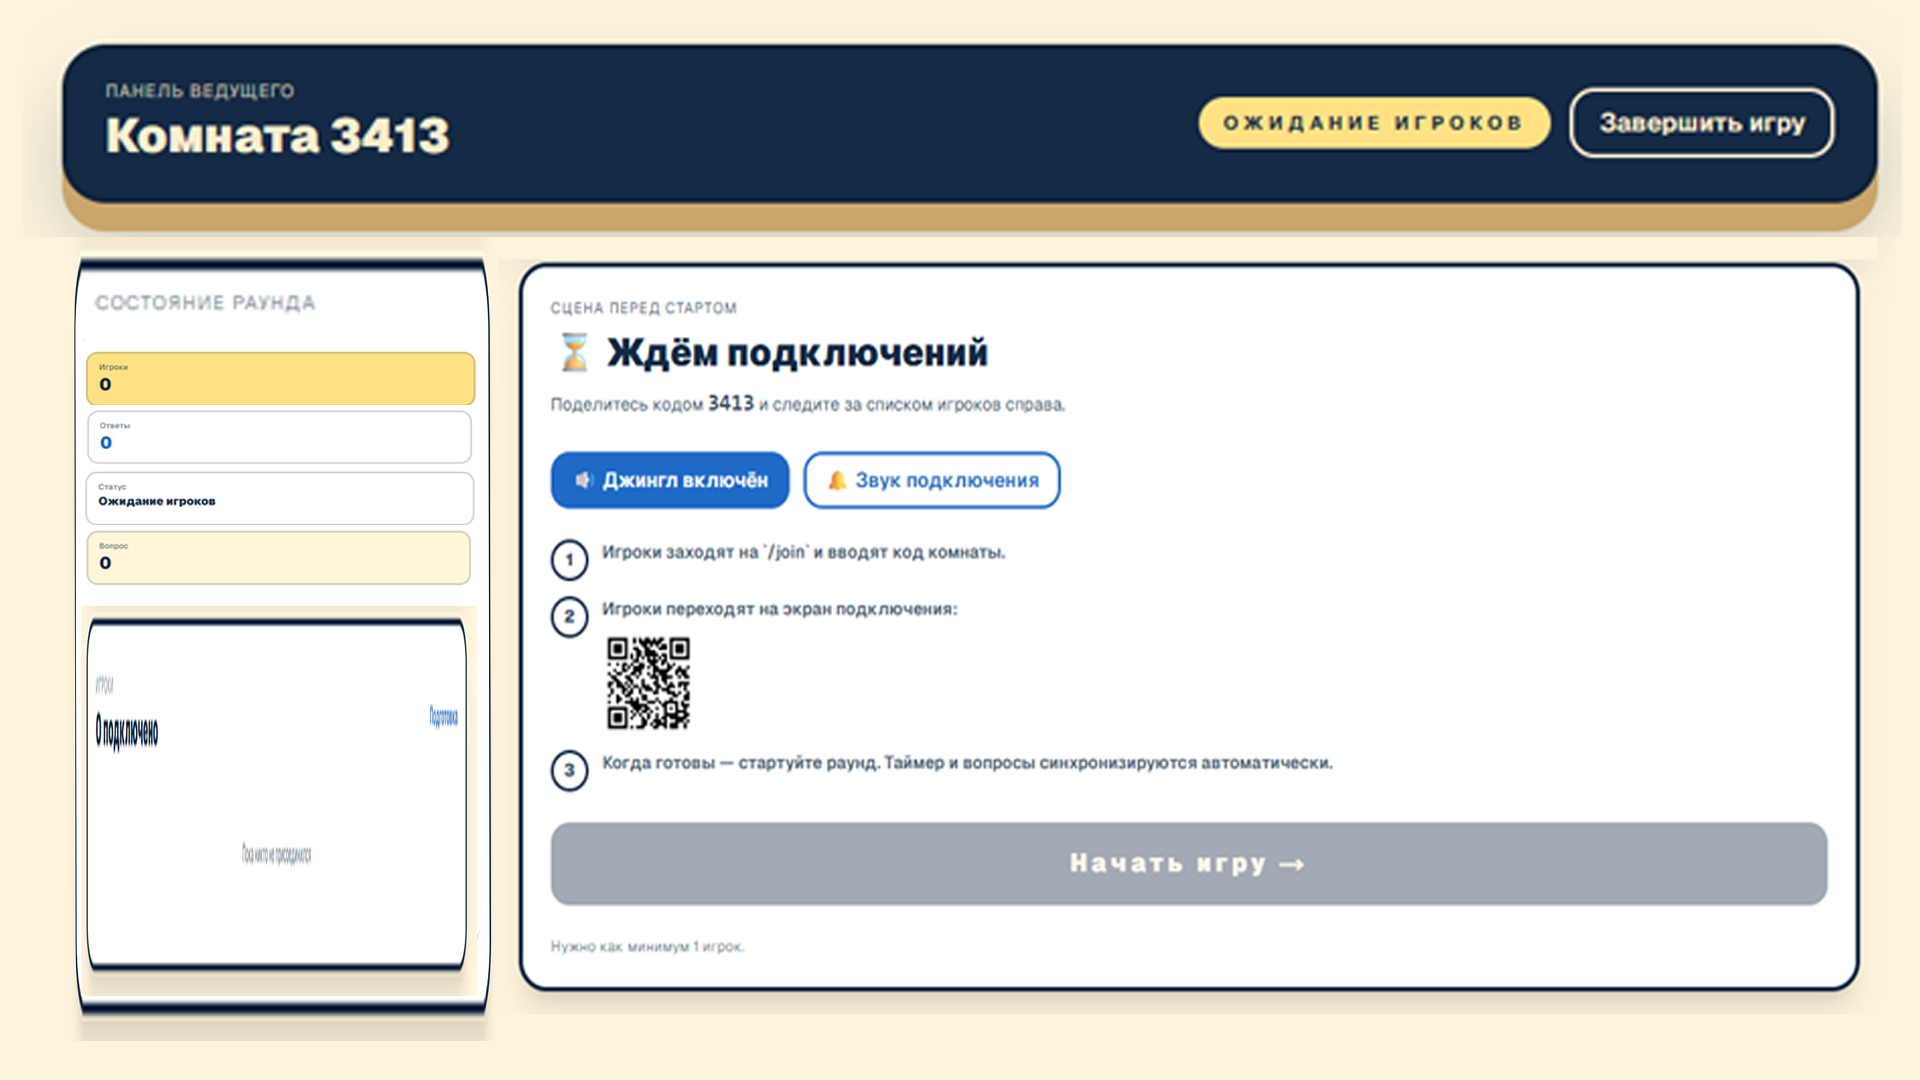
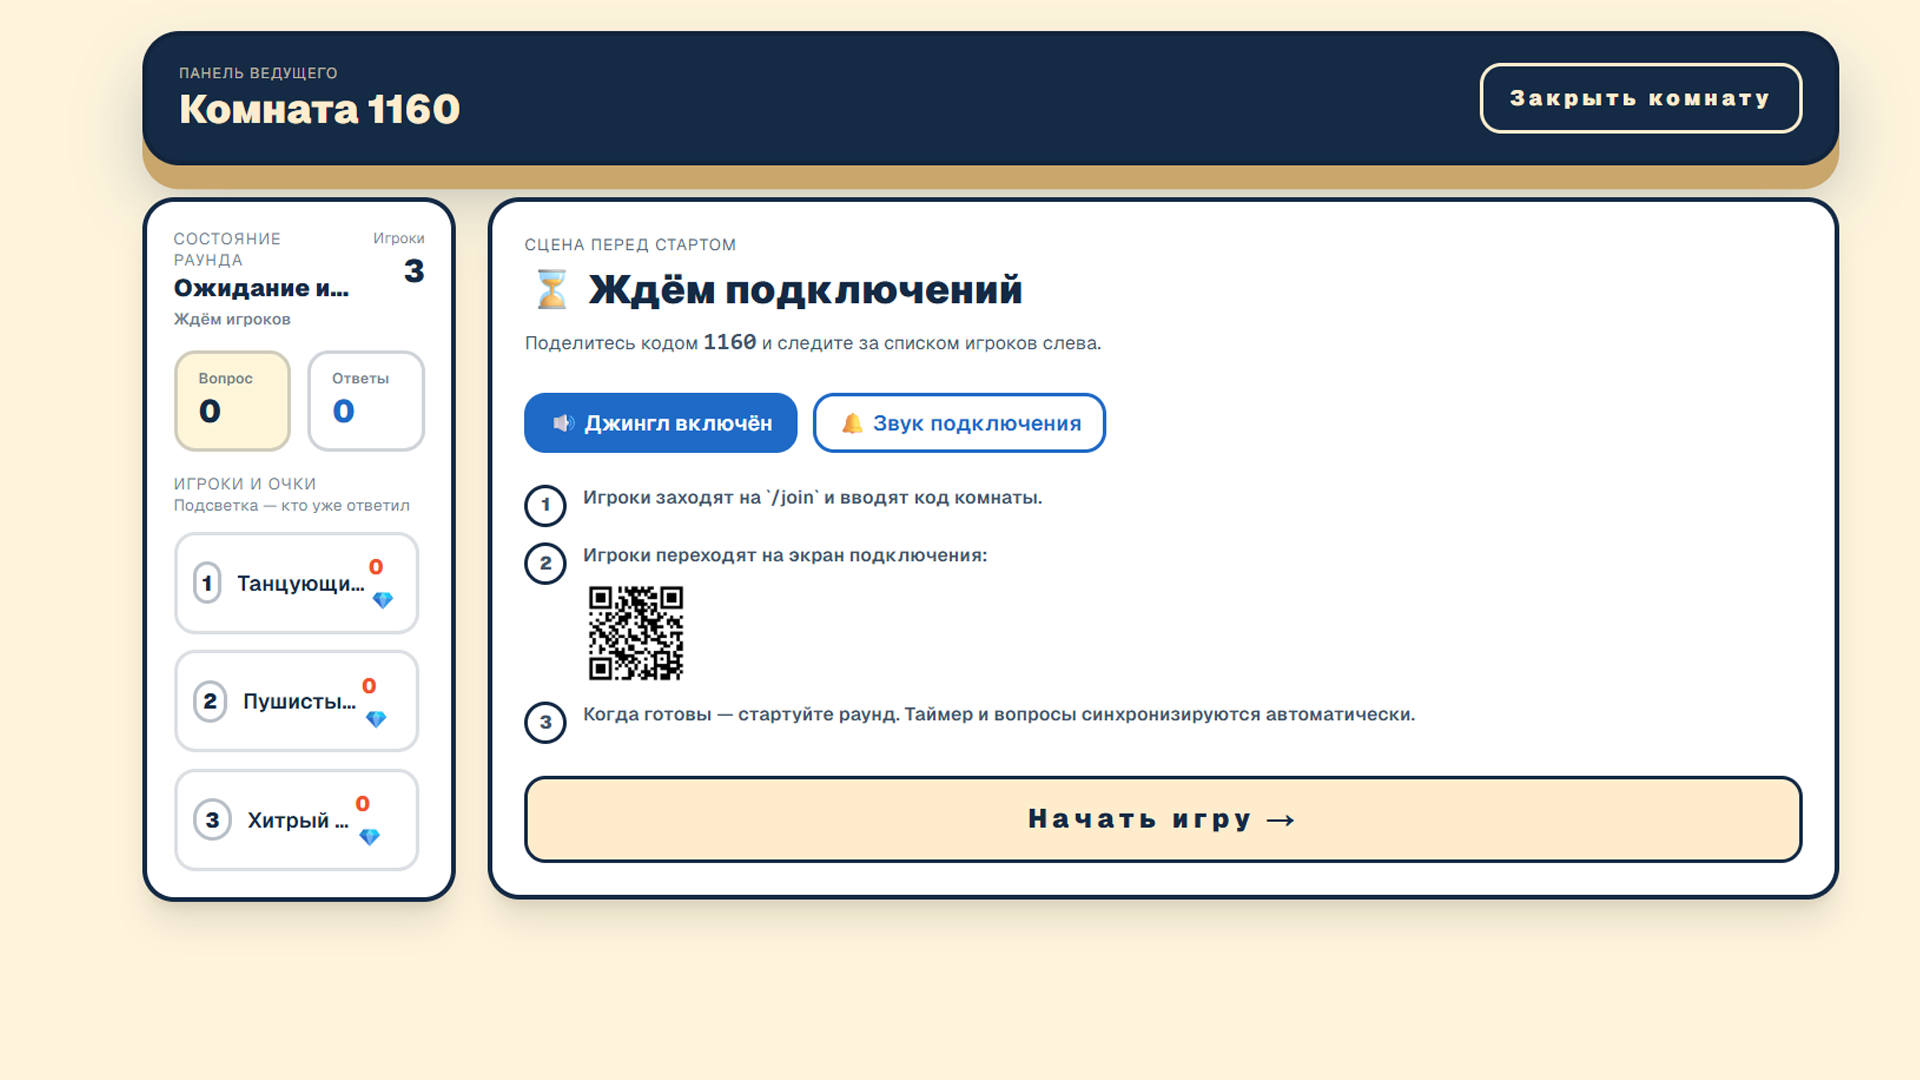
Widen left panel, 2-column players grid, wrap status text

diff --git a/app/host/[roomId]/page.tsx b/app/host/[roomId]/page.tsx
@@ -5586,7 +5586,7 @@ export default function HostRoomPage() {
           ? '4 раунд завершён'
           : '3 раунд завершён'
       : roomStatus === 'waiting'
-        ? 'Ожидание игроков'
+        ? 'Ожидание и подключение'
         : roomStatus === 'running'
           ? 'Раунд 1 в эфире'
           : roomStatus === 'round2-running'
@@ -5641,13 +5641,15 @@ export default function HostRoomPage() {
           </div>
         )}
 
-        <div className="grid gap-6 lg:grid-cols-5">
-          <section className="lg:col-span-1">
+        <div className="grid gap-6 lg:grid-cols-12">
+          <section className="lg:col-span-3">
             <div className="rounded-3xl border-[4px] border-[#142a45] bg-white shadow-xl p-5 space-y-4">
               <div className="flex items-start justify-between gap-4">
                 <div className="min-w-0">
                   <p className="retro-heading text-xs tracking-[0.4em] text-[#142a45]/60">Состояние раунда</p>
-                  <p className="text-lg font-black text-[#142a45] truncate">{statusLabel}</p>
+              <p className="text-base sm:text-lg font-black text-[#142a45] leading-tight whitespace-normal break-words">
+              {statusLabel}
+              </p>
                   <p className="text-xs font-semibold text-[#142a45]/60">
                     {roomStatus === 'waiting' ? 'Ждём игроков' : 'Игра идёт'}
                   </p>
@@ -5688,7 +5690,7 @@ export default function HostRoomPage() {
                 {players.length === 0 ? (
                   <p className="text-sm text-[#142a45]/70 text-center py-6">Пока никто не присоединился</p>
                 ) : (
-                  <div className="space-y-3 max-h-[60vh] overflow-y-auto pr-1">
+                  <div className="grid grid-cols-1 sm:grid-cols-2 gap-3 max-h-[60vh] overflow-y-auto pr-1">
                     {players.map((player, index) => {
                       const hasAnswered = answeredPlayerIds.includes(player.id);
                       return (
@@ -5703,7 +5705,7 @@ export default function HostRoomPage() {
                               {index + 1}
                             </span>
                             <div className="min-w-0">
-                              <p className="font-semibold truncate">{player.name}</p>
+                        <p className="font-semibold text-sm leading-snug whitespace-normal break-words">{player.name}</p>
                               {roomStatus === 'running' && question ? (
                                 <p className={`text-xs font-semibold ${hasAnswered ? 'text-[#1f6ac6]' : 'text-[#142a45]/50'}`}>
                                   {hasAnswered ? 'Ответ получен' : 'Ждём ответ'}
@@ -5727,7 +5729,7 @@ export default function HostRoomPage() {
             </div>
           </section>
 
-          <div className="lg:col-span-4 space-y-6">
+              <div className="lg:col-span-9 space-y-6">
             {isTournamentVisible ? (
               <div className="rounded-3xl border-[4px] border-[#142a45] bg-white shadow-xl p-6 space-y-6">
                 <div className="flex items-center justify-between">
